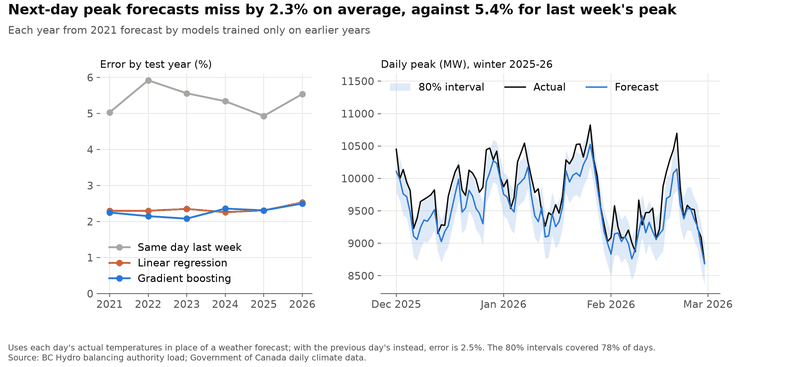
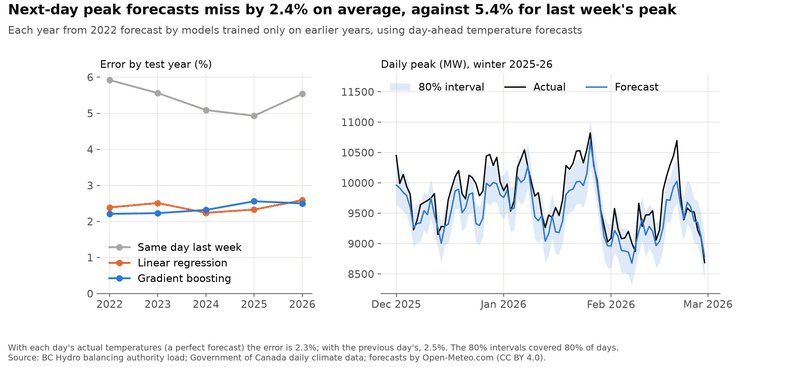
Update the electricity project with the time-varying temperature effect and real-forecast backtest

diff --git a/bc-electricity-load.html b/bc-electricity-load.html
@@ -5,9 +5,9 @@
   <meta name="viewport" content="width=device-width, initial-scale=1.0" />
   <meta http-equiv="Content-Security-Policy" content="default-src 'self'; script-src 'self'; style-src 'self'; img-src 'self'; font-src 'self'; connect-src 'none'; object-src 'none'; base-uri 'self'; form-action 'none'" />
   <title>Electricity load, weather and next-day peaks in BC | Ata Malfuzi</title>
-  <meta name="description" content="How much of British Columbia's electricity load growth since 2002 comes from the weather, and how well next-day peaks can be forecast. Built in Python from public data." />
+  <meta name="description" content="How much of British Columbia's electricity load growth since 2002 comes from the weather, how load's response to temperature has changed, and how well next-day peaks can be forecast with real weather forecasts. Built in Python from public data." />
   <meta property="og:title" content="Electricity load, weather and next-day peaks in BC | Ata Malfuzi" />
-  <meta property="og:description" content="How much of British Columbia's electricity load growth since 2002 comes from the weather, and how well next-day peaks can be forecast. Built in Python from public data." />
+  <meta property="og:description" content="How much of British Columbia's electricity load growth since 2002 comes from the weather, how load's response to temperature has changed, and how well next-day peaks can be forecast with real weather forecasts. Built in Python from public data." />
   <meta property="og:type" content="website" />
   <meta property="og:url" content="https://atamalfuzi.github.io/bc-electricity-load.html" />
   <meta property="og:image" content="https://atamalfuzi.github.io/img/og-electricity.png" />
@@ -63,21 +63,21 @@
   <div class="page-top">
     <a class="back" href="projects.html">Back to portfolio</a>
     <h1>Electricity load, weather and next-day peaks in BC</h1>
-    <p class="lead">An independent look at British Columbia's electricity load since 2002, built from public data in Python. It asks how much of the growth comes from the weather, and how well tomorrow's peak can be forecast from what is known today.</p>
-    <div class="links-row"><a href="https://github.com/atamalfuzi/bc_electricity_load" target="_blank">Code on GitHub</a><a href="https://github.com/atamalfuzi/bc_electricity_load/blob/main/output/annual_load.csv" target="_blank">Annual table (CSV)</a><a href="https://github.com/atamalfuzi/bc_electricity_load/blob/main/output/backtest_summary.csv" target="_blank">Backtest table (CSV)</a></div>
+    <p class="lead">An independent look at British Columbia's electricity load since 2002, built from public data in Python. It asks how much of the growth comes from the weather, how load's response to temperature has changed, and how well tomorrow's peak can be forecast with the weather forecast a forecaster would actually have.</p>
+    <div class="links-row"><a href="https://github.com/atamalfuzi/bc_electricity_load" target="_blank">Code on GitHub</a><a href="https://github.com/atamalfuzi/bc_electricity_load/blob/main/output/annual_load.csv" target="_blank">Annual table (CSV)</a><a href="https://github.com/atamalfuzi/bc_electricity_load/blob/main/output/temperature_effect.csv" target="_blank">Temperature effect table (CSV)</a><a href="https://github.com/atamalfuzi/bc_electricity_load/blob/main/output/backtest_summary.csv" target="_blank">Backtest table (CSV)</a></div>
   </div>
 
   <figure>
-    <img src="img/load-temperature-response.png" srcset="img/load-temperature-response-800.png 800w, img/load-temperature-response.png 1600w" sizes="(max-width: 860px) calc(100vw - 2.5rem), 816px" alt="Line chart of average workday load against daily mean temperature at Vancouver airport for 2002-2009, 2010-2017 and 2018-2026. Load rises as it gets colder in every period, and in 2018-2026 it also rises clearly on hot days." width="1600" height="1067" />
-    <figcaption>Average workday load by daily mean temperature at Vancouver airport, for three periods.</figcaption>
+    <img src="img/load-temperature-effect.png" srcset="img/load-temperature-effect-800.png 800w, img/load-temperature-effect.png 1600w" sizes="(max-width: 860px) calc(100vw - 2.5rem), 816px" alt="Two panels of the effect of 1 °C at all four airports on daily load, 2002 to 2026, with 90% bands. The effect of a degree colder rises from about 73 MW in 2002-2006 to about 97 MW in 2021-2025; the effect of a degree hotter rises from about 131 MW to about 307 MW." width="1600" height="733" />
+    <figcaption>Effect of 1 °C at all four airports on daily average load, estimated month by month with a Kalman filter, with yearly averages, 90% bands and fixed-period estimates for comparison.</figcaption>
   </figure>
 
   <section class="section">
     <h2>What it shows</h2>
     <ul>
       <li>Growth is structural, not weather. Weather-normalised load rose from 56.6 TWh in 2002 to 67.4 TWh in 2025 (+19%). Weather moved any single year by less than 0.8 TWh.</li>
-      <li>Cold drives load, and hot days now matter too. A day 1 °C colder at all four airports (below 18 °C) adds about 92 MW in 2018-2026, up from 78 MW in 2002-2009. A day 1 °C hotter (above 18 °C) adds about 193 MW, up from 91 MW. This fits the spread of air conditioning and heat pumps, though the data cannot show the cause.</li>
-      <li>Next-day peaks can be forecast to within about 2.3%. Over 2021 to September 2026, gradient boosting and a linear regression on the same inputs both missed the daily peak by 2.3% on average, against 5.4% for the peak a week earlier. The linear model does as well as the boosted trees, and the 80% intervals covered 78% of days.</li>
+      <li>Load responds more to temperature than it used to, especially to heat. A sustained degree colder at all four airports (below 18 °C) adds about 97 MW to daily load in 2021-2025 (90% band 86-107), up from 73 MW in 2002-2006. A degree hotter (above 18 °C) adds about 307 MW (220-395), up from about 131 MW, though the early estimate is imprecise. This fits the spread of air conditioning and heat pumps, though the data cannot show the cause.</li>
+      <li>Next-day peaks can be forecast to within about 2.4% with real weather forecasts. Over 2022 to September 2026, gradient boosting fed the day-ahead temperature forecast missed the daily peak by 2.4% on average, against 5.4% for the peak a week earlier. A perfect weather forecast would only improve that to 2.3%: most of the error is not the weather. The 80% intervals covered 80% of days.</li>
     </ul>
   </section>
 
@@ -89,28 +89,29 @@
   <section class="section">
     <h2>How it works</h2>
     <p>Hourly load is turned into each day's average and peak. A least-squares regression of daily average load on a separate level for each year, heating and cooling degrees below and above 18 °C at the Vancouver, Victoria, Kamloops and Prince George airports (with separate effects for 2002-2009, 2010-2017 and 2018-2026), and calendar effects explains 96% of the daily variation. Each year's weather-normalised load replaces that year's weather effect with the effect of the average weather over 2002-2025.</p>
-    <p>The forecast test is a rolling-origin backtest: each year from 2021 to 2026 is forecast by models trained only on earlier years, using what is known the evening before. It compares the peak on the same day last week, a linear regression and gradient boosting. The 80% interval is the forecast plus or minus the 80th percentile of the errors the model made the year before.</p>
+    <p>The change in the temperature response is estimated with a state-space model of daily load: a smooth trend for the structural level, heating and cooling effects that follow random walks and can move once a month, fixed calendar effects and an error that carries over from day to day. The Kalman smoother traces each effect with a 90% band. It uses effective temperatures (today's weighted 1/2, yesterday's 1/4, and so on), because buildings respond to the last few days of weather: with same-day temperatures, the carry-over error absorbs multi-day cold spells and the heating effect is understated by about a third.</p>
+    <p>The forecast test is a rolling-origin backtest: each year from 2022 to 2026 is forecast by models trained only on earlier years, using what is known the evening before. It compares the peak on the same day last week, a linear regression and gradient boosting. The models are fed archived day-ahead temperature forecasts (the GFS weather model, run about 24 hours ahead), corrected for each airport against the year before, and also the day's actual temperatures and the previous day's for comparison. The 80% interval is the forecast plus or minus the 80th percentile of the errors the model made the year before, and is also scored by its width plus a penalty for each miss.</p>
   </section>
 
   <figure>
-    <img src="img/load-forecast-backtest.png" srcset="img/load-forecast-backtest-800.png 800w, img/load-forecast-backtest.png 1600w" sizes="(max-width: 860px) calc(100vw - 2.5rem), 816px" alt="Two panels: forecast error by test year, about 2.3% for the linear regression and gradient boosting against about 5% for last week's peak; and daily peaks in winter 2025-26 with the forecast and its 80% interval." width="1600" height="733" loading="lazy" />
-    <figcaption>Next-day peak forecast error by test year, and winter 2025-26 forecasts with their 80% interval.</figcaption>
+    <img src="img/load-forecast-backtest.png" srcset="img/load-forecast-backtest-800.png 800w, img/load-forecast-backtest.png 1600w" sizes="(max-width: 860px) calc(100vw - 2.5rem), 816px" alt="Two panels: forecast error by test year with day-ahead weather forecasts, about 2.4% for gradient boosting and the linear regression against about 5.4% for last week's peak; and daily peaks in winter 2025-26 with the forecast and its 80% interval." width="1600" height="733" loading="lazy" />
+    <figcaption>Next-day peak forecast error by test year using day-ahead weather forecasts, and winter 2025-26 forecasts with their 80% interval.</figcaption>
   </figure>
 
   <section class="section">
     <h2>Limits</h2>
     <ul>
-      <li>The backtest uses each day's actual temperatures, so it is optimistic. With the previous day's temperatures instead, the average error rises from 2.3% to 2.5%; a real day-ahead forecast would fall between the two.</li>
+      <li>The forecast archive starts in 2021 and has gaps: 22 of 1,733 test days, mostly in January 2024, have no archived forecast and are left out of the day-ahead results.</li>
       <li>Four airports stand in for the province, with no population weighting.</li>
-      <li>"Structural" is everything that is not weather: population and economic growth, the 2009 recession, the pandemic, industrial customers opening and closing, and electrification. The year levels do not separate these.</li>
-      <li>Days above 18 °C are rare in BC, and 2018-2026 includes the 2021 heat dome, so the hot-weather effects are less precise than the cold-weather ones.</li>
+      <li>"Structural" is everything that is not weather: population and economic growth, the 2009 recession, the pandemic, industrial customers opening and closing, and electrification. Neither the year levels nor the smooth trend separate these.</li>
+      <li>Days above 18 °C are rare in BC, and recent years include the 2021 heat dome, so the hot-weather effects are much less precise than the cold-weather ones, as the wide bands show.</li>
     </ul>
   </section>
 
   <section class="section notes">
     <h2>Data</h2>
-    <p>Hourly balancing authority load from BC Hydro's historical transmission data, 2002 to September 2026. BC Hydro's data is not openly licensed, so the repository and this page show only charts and summaries made from it. Daily mean temperatures at four airports from Government of Canada daily climate data. Analysis in Python with pandas and scikit-learn; code under the MIT licence.</p>
-    <p>Contains information licensed under the Open Government Licence - Canada.</p>
+    <p>Hourly balancing authority load from BC Hydro's historical transmission data, 2002 to September 2026. BC Hydro's data is not openly licensed, so the repository and this page show only charts and summaries made from it. Daily mean temperatures at four airports from Government of Canada daily climate data. Day-ahead temperature forecasts from Open-Meteo's archive of past forecast runs (CC BY 4.0). Analysis in Python with pandas, statsmodels and scikit-learn, with automated tests; code under the MIT licence.</p>
+    <p>Contains information licensed under the Open Government Licence - Canada. Weather forecast data by Open-Meteo.com.</p>
   </section>
 </article>
 </main>

diff --git a/index.html b/index.html
@@ -86,7 +86,7 @@
       <div>
         <h3><a href="bc-electricity-load.html">Electricity load, weather and next-day peaks in BC</a></h3>
         <p class="meta">Open data analysis in Python, 2026</p>
-        <p>BC's load grew 19% from 2002 to 2025 and the weather explains almost none of it. Next-day peaks can be forecast to within about 2.3%.</p>
+        <p>BC's load grew 19% from 2002 to 2025 and the weather explains almost none of it, but each degree of heat now adds more than twice the load it did. With real weather forecasts, next-day peaks are forecast to within about 2.4%.</p>
         <div class="links-row"><a href="bc-electricity-load.html">Project page</a><a href="https://github.com/atamalfuzi/bc_electricity_load" target="_blank">Code</a></div>
       </div>
     </li>

diff --git a/projects.html b/projects.html
@@ -69,7 +69,7 @@
       <div>
         <h3><a href="bc-electricity-load.html">Electricity load, weather and next-day peaks in BC</a></h3>
         <p class="meta">Open data analysis in Python, 2026</p>
-        <p>BC's load grew 19% from 2002 to 2025 and the weather explains almost none of it. Next-day peaks can be forecast to within about 2.3%.</p>
+        <p>BC's load grew 19% from 2002 to 2025 and the weather explains almost none of it, but each degree of heat now adds more than twice the load it did. With real weather forecasts, next-day peaks are forecast to within about 2.4%.</p>
         <div class="links-row"><a href="bc-electricity-load.html">Project page</a><a href="https://github.com/atamalfuzi/bc_electricity_load" target="_blank">Code</a></div>
       </div>
     </li>
